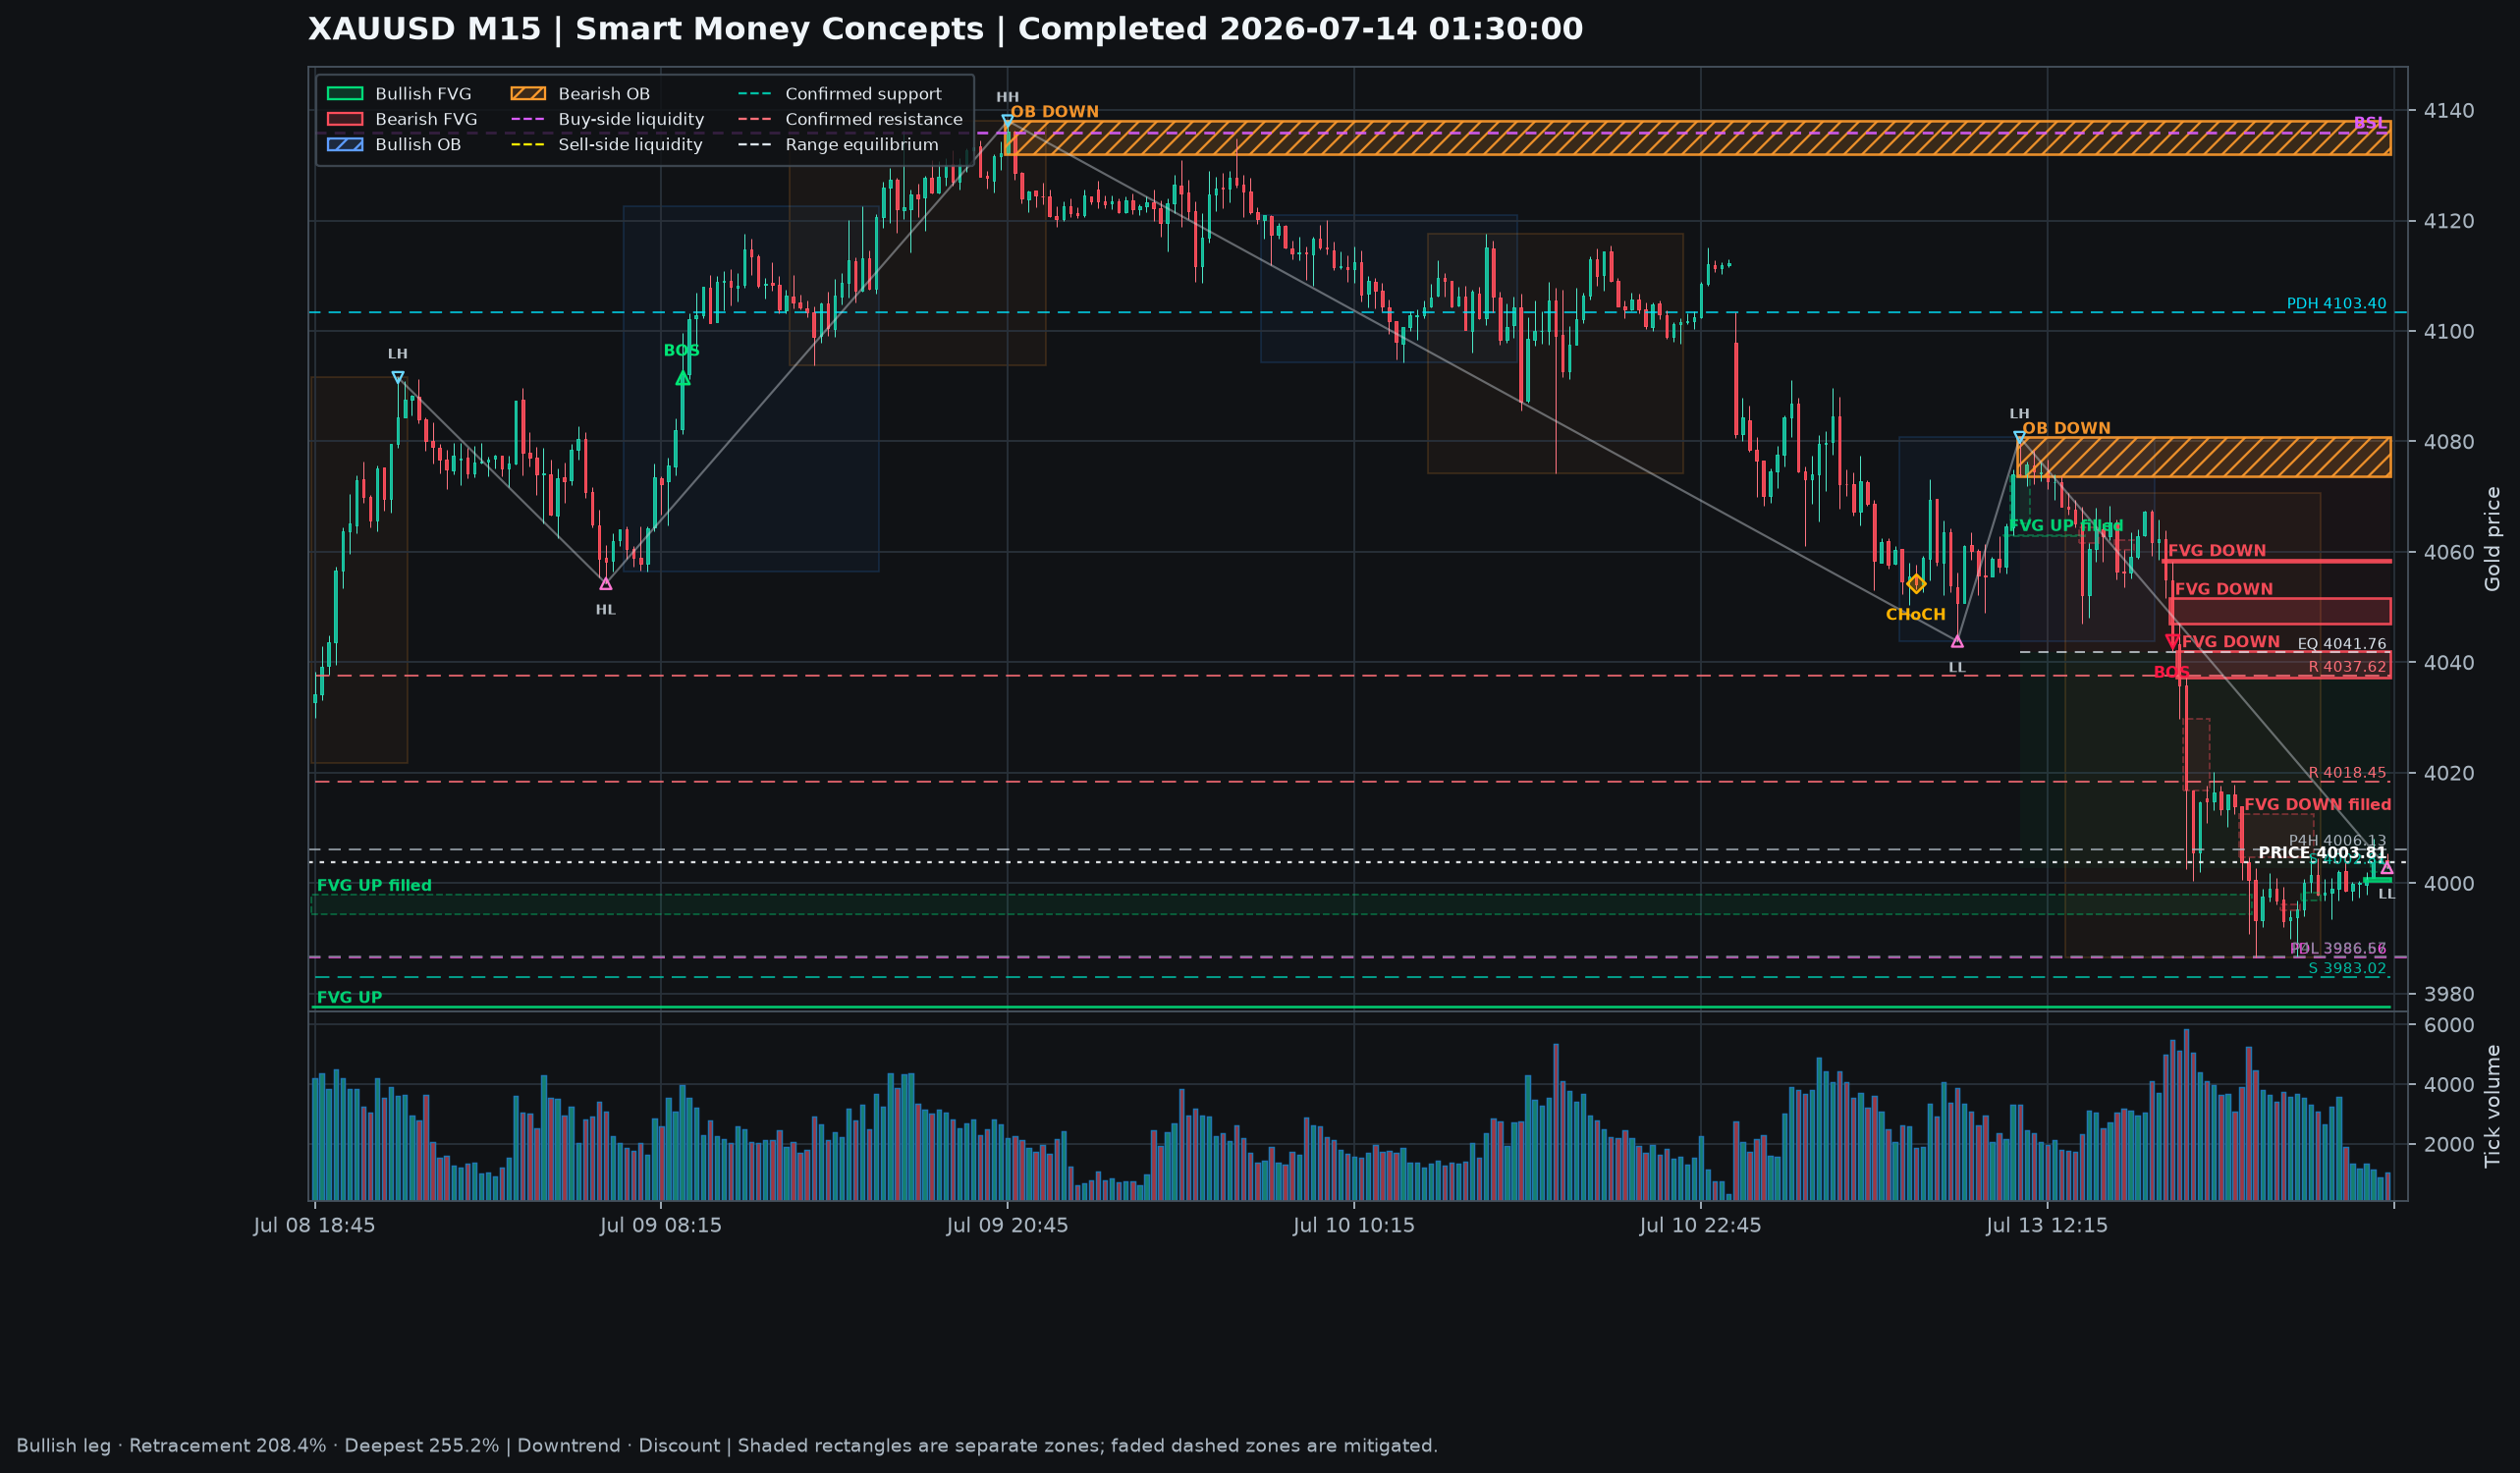
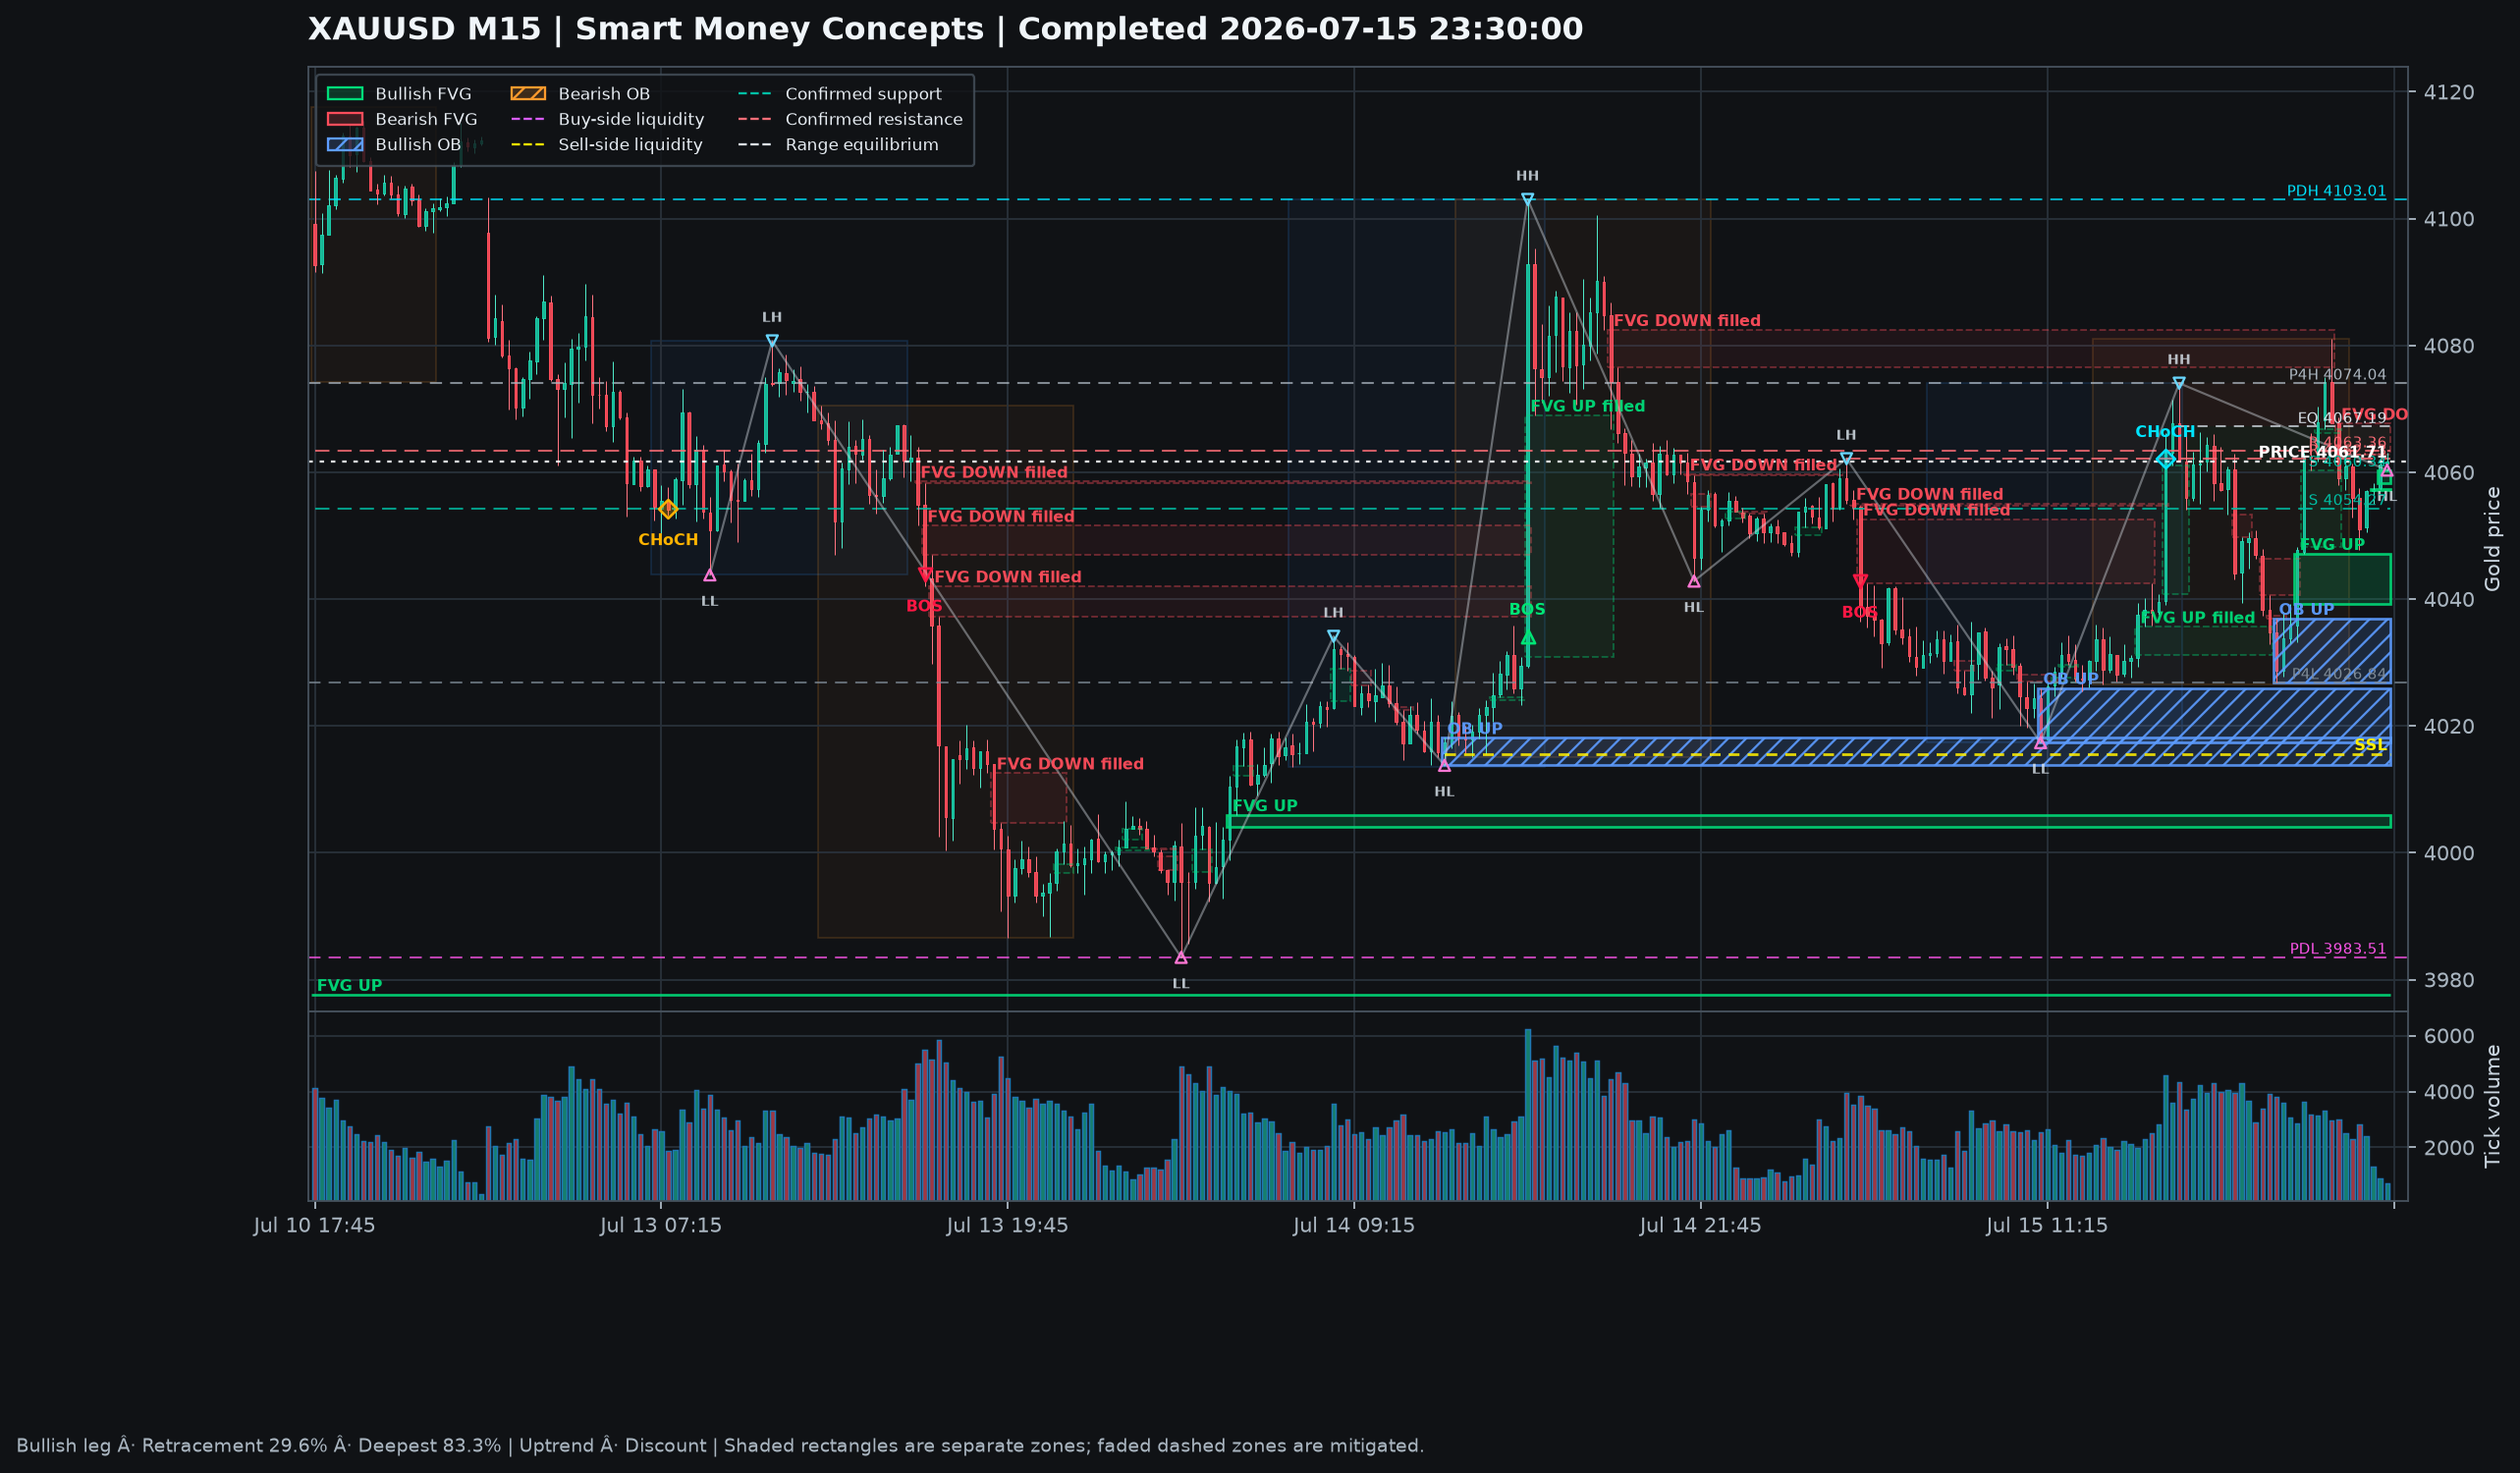
the second attempt using the vscode agent

diff --git a/gold_smc/config.py b/gold_smc/config.py
@@ -1,4 +1,7 @@
 from pathlib import Path
+import atexit
+import msvcrt
+import threading
 
 SYMBOL = "XAUUSD"
 TIMEFRAME = None
@@ -16,10 +19,14 @@ SESSION_COLORS = {
     "New York": "rgba(255, 155, 45, 0.07)",
 }
 
-MAX_FVG_ZONES = 16
-MAX_OB_ZONES = 10
+# Expanded zone limits for comprehensive coverage
+MAX_FVG_ZONES = 64
+MAX_OB_ZONES = 24
 MAX_LIQUIDITY_LEVELS = 6
 MAX_SWING_MARKERS = 40
+
+# Windows process lock for preventing duplicate dashboard instances
+INSTANCE_LOCK_FILE = ".gold_smc.lock"
 
 CSV_OUTPUT_FILE = "xauusd_m15_smc_results.csv"
 HTML_OUTPUT_FILE = "xauusd_m15_smc_chart.html"
@@ -49,3 +56,50 @@ def project_path(filename: str | Path) -> Path:
 
     path = Path(filename)
     return path if path.is_absolute() else PROJECT_ROOT / path
+
+
+def release_instance_lock(lock_file) -> None:
+    """Release the Windows process lock when Python exits."""
+
+    try:
+        lock_file.seek(0)
+        msvcrt.locking(
+            lock_file.fileno(),
+            msvcrt.LK_UNLCK,
+            1,
+        )
+    except (OSError, ValueError):
+        pass
+
+    lock_file.close()
+
+
+def acquire_instance_lock():
+    """Return a held lock, or None when the dashboard already runs."""
+
+    lock_path = project_path(
+        INSTANCE_LOCK_FILE
+    ).resolve()
+    lock_file = lock_path.open("a+b")
+
+    if lock_path.stat().st_size == 0:
+        lock_file.write(b"1")
+        lock_file.flush()
+
+    lock_file.seek(0)
+
+    try:
+        msvcrt.locking(
+            lock_file.fileno(),
+            msvcrt.LK_NBLCK,
+            1,
+        )
+    except OSError:
+        lock_file.close()
+        return None
+
+    atexit.register(
+        release_instance_lock,
+        lock_file,
+    )
+    return lock_file

diff --git a/gold_smc/indicators.py b/gold_smc/indicators.py
@@ -379,3 +379,57 @@ def validate_indicator_results(
                 f"Unexpected values in {session_column}: "
                 f"{sorted(unexpected)}"
             )
+
+    # Validate OHLC geometry
+    for index in results.index:
+        high = float(results.at[index, "high"])
+        low = float(results.at[index, "low"])
+        open_price = float(results.at[index, "open"])
+        close_price = float(results.at[index, "close"])
+
+        if high < max(open_price, close_price):
+            raise ValueError(
+                f"Invalid OHLC geometry: high < max(open, close) "
+                f"at row {index}"
+            )
+
+        if low > min(open_price, close_price):
+            raise ValueError(
+                f"Invalid OHLC geometry: low > min(open, close) "
+                f"at row {index}"
+            )
+
+    # Validate FVG timing and alignment
+    for index in results.index:
+        if pd.notna(results.at[index, "FVG_FVG"]):
+            # FVG signal is stored on candle 2, confirmed on candle 3.
+            # The SMC library handles the 3-candle requirement.
+            fvg_top = results.at[index, "FVG_Top"]
+            fvg_bottom = results.at[index, "FVG_Bottom"]
+            
+            if pd.notna(fvg_top) and pd.notna(fvg_bottom):
+                high = float(results.at[index, "high"])
+                low = float(results.at[index, "low"])
+                
+                # FVG boundaries should be within candle OHLC range
+                # (accounting for candle 1 high-low span)
+                if fvg_bottom < low or fvg_top > high:
+                    # This is a warning-level check, not a fatal error
+                    pass
+
+    # Validate zone geometries (FVG, OB, Liquidity)
+    for zone_prefix in ["FVG", "OB", "Liquidity"]:
+        for index in results.index:
+            top_col = f"{zone_prefix}_Top"
+            bottom_col = f"{zone_prefix}_Bottom"
+
+            if top_col in results.columns and bottom_col in results.columns:
+                top = results.at[index, top_col]
+                bottom = results.at[index, bottom_col]
+
+                if pd.notna(top) and pd.notna(bottom):
+                    if top <= bottom:
+                        raise ValueError(
+                            f"Invalid {zone_prefix} zone geometry "
+                            f"at row {index}: top <= bottom"
+                        )

diff --git a/gold_smc/__main__.py b/gold_smc/__main__.py
@@ -1,4 +1,14 @@
+from .config import acquire_instance_lock
 from .core import main
 
 if __name__ == "__main__":
+    # Prevent multiple dashboard instances on Windows
+    instance_lock = acquire_instance_lock()
+    if instance_lock is None:
+        print(
+            "Dashboard is already running. "
+            "Only one instance is allowed at a time."
+        )
+        exit(1)
+    
     main()